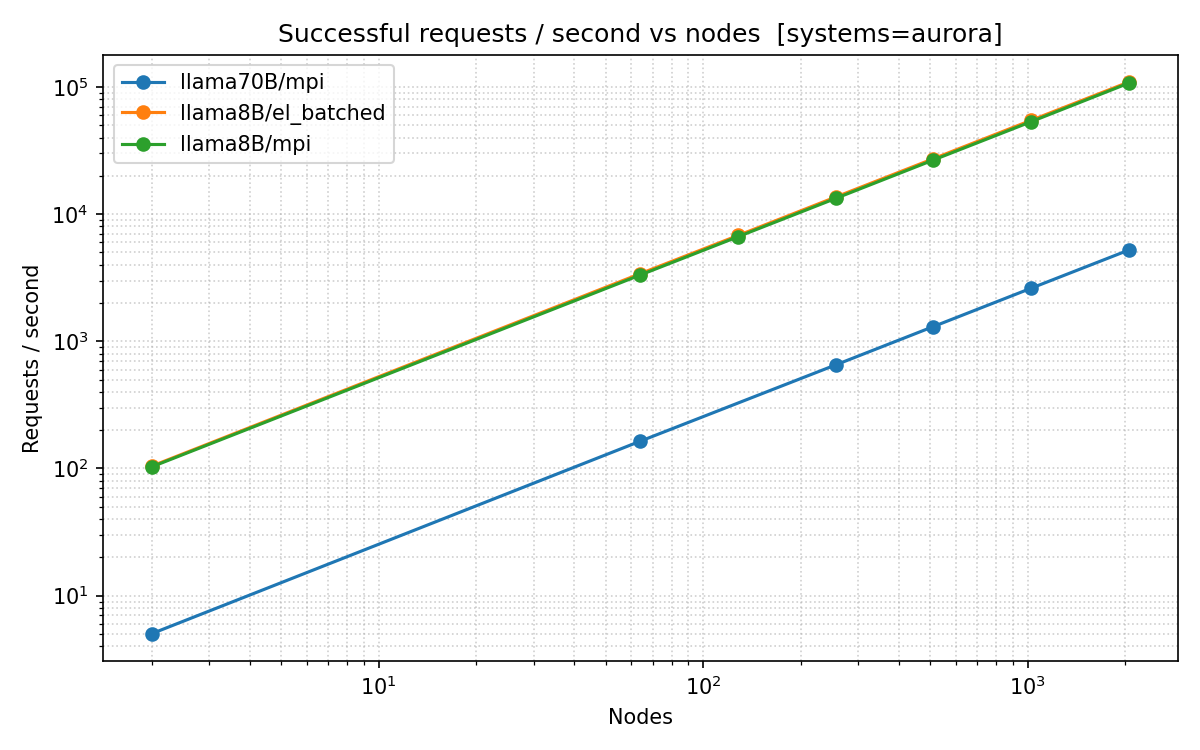
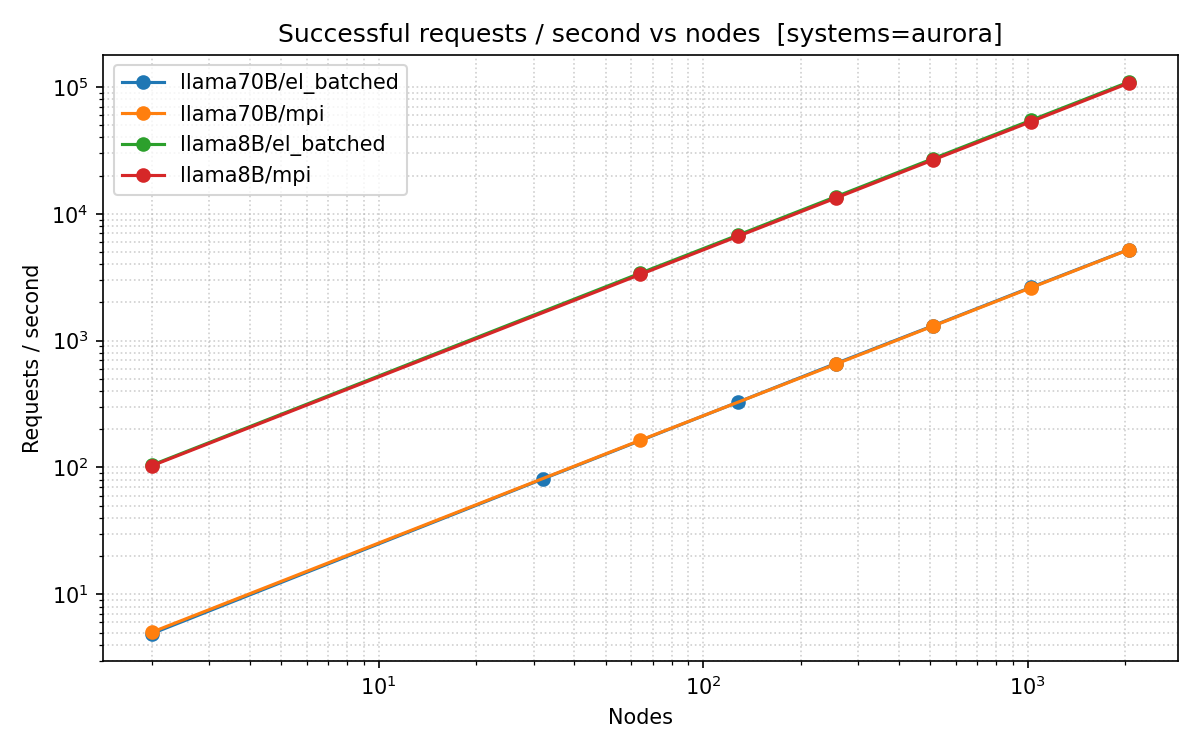
Fix bug with request-driven EL scripts
ALso update performance plots

diff --git a/AI_ML/LLM_Inference/EL/EL_batched_inference.py b/AI_ML/LLM_Inference/EL/EL_batched_inference.py
@@ -167,7 +167,7 @@ async def async_main():
         print(f"Submitted {num_tasks} LLM inference tasks across {len(nodes)} nodes", flush=True)
 
         # Wait for task completion
-        done, pending = concurrent.futures.wait(llm_futures, timeout=500)
+        done, pending = concurrent.futures.wait(llm_futures, timeout=700)
 
         # Check completed tasks
         if len(done) == num_tasks:

diff --git a/AI_ML/LLM_Inference/README.md b/AI_ML/LLM_Inference/README.md
@@ -262,5 +262,4 @@ mpiexec -np $NODES -ppn 1 --cpu-bind numa bcast /path/on/lustre/my_dir /path/on/
 mpiexec -np $NODES -ppn 1 --cpu-bind numa bcast --no-root-write /path/on/tmp/my_dir /path/on/tmp
 ```
 
-### Distribute prompts
 
